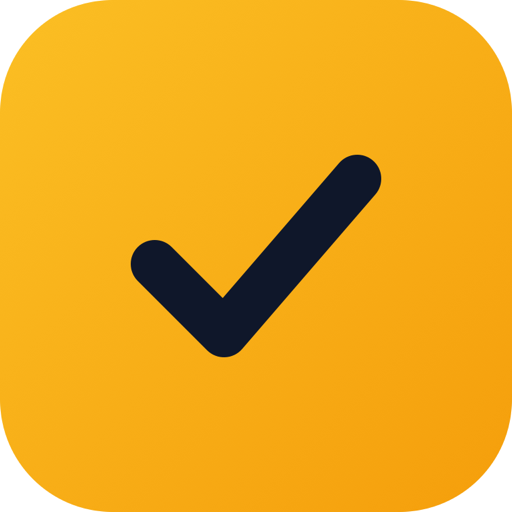
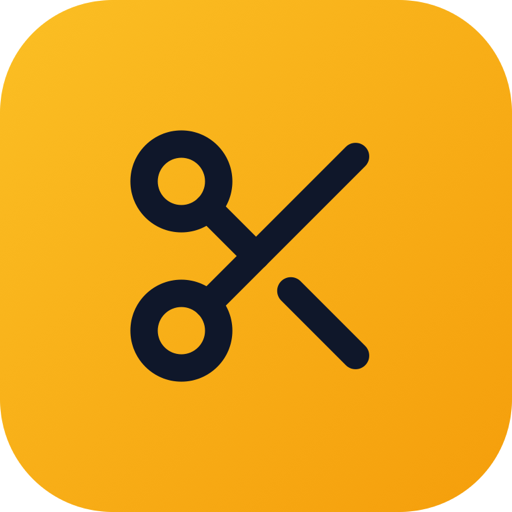
Replace Nuxt branding, show demo accounts, enlarge the alert count
- favicon.ico is now the workshop's scissors mark (16/32/48), and the app
  icons plus the og-image follow the same mark instead of a placeholder check
- app/spa-loading-template.html: a self-contained branded boot screen, wired
  into devServer.loadingTemplate too, so the dev compile screen drops the Nuxt
  logo as well
- Notification chip runs at 3xl with a readable, tabular count
- The seeded demo accounts are printed on the sign-in screen with a fill
  button; NUXT_PUBLIC_DEMO_LOGIN=false hides the block on a real instance

Changed region(s): [[0.25, 0.25, 0.75, 0.75]]

diff --git a/app/spa-loading-template.html b/app/spa-loading-template.html
@@ -1,0 +1,102 @@
+<!--
+  Shown while the app boots (and, via `devServer.loadingTemplate`, while the dev
+  server compiles). Self-contained on purpose: no fonts, no CSS from the app,
+  nothing that could still be loading at the moment this has to be on screen.
+-->
+<div class="chevar-boot">
+  <div class="chevar-boot__mark" aria-hidden="true">
+    <svg viewBox="0 0 24 24" fill="none" stroke="currentColor" stroke-width="2.2" stroke-linecap="round" stroke-linejoin="round">
+      <circle cx="6" cy="6" r="3" />
+      <path d="M8.12 8.12 12 12" />
+      <path d="M20 4 8.12 15.88" />
+      <circle cx="6" cy="18" r="3" />
+      <path d="M14.8 14.8 20 20" />
+    </svg>
+  </div>
+
+  <p class="chevar-boot__name">Chevarxona CRM</p>
+  <p class="chevar-boot__note">Tikuvchilik ustaxonasi</p>
+
+  <div class="chevar-boot__bar"><span></span></div>
+</div>
+
+<style>
+  .chevar-boot {
+    --bg: #f8fafc;
+    --fg: #0f172a;
+    --muted: #64748b;
+    --accent: #f59e0b;
+    --track: rgba(15, 23, 42, 0.08);
+    position: fixed;
+    inset: 0;
+    display: flex;
+    flex-direction: column;
+    align-items: center;
+    justify-content: center;
+    gap: 0.5rem;
+    background: var(--bg);
+    color: var(--fg);
+    font-family: ui-sans-serif, system-ui, -apple-system, "Segoe UI", sans-serif;
+  }
+
+  @media (prefers-color-scheme: dark) {
+    .chevar-boot {
+      --bg: #0f172a;
+      --fg: #f8fafc;
+      --muted: #94a3b8;
+      --track: rgba(248, 250, 252, 0.12);
+    }
+  }
+
+  .chevar-boot__mark {
+    width: 56px;
+    height: 56px;
+    border-radius: 16px;
+    background: linear-gradient(135deg, #fbbf24, #f59e0b);
+    color: #0f172a;
+    display: flex;
+    align-items: center;
+    justify-content: center;
+    margin-bottom: 0.75rem;
+    animation: chevar-pulse 1.6s ease-in-out infinite;
+  }
+
+  .chevar-boot__mark svg { width: 28px; height: 28px; }
+
+  .chevar-boot__name { margin: 0; font-size: 0.9375rem; font-weight: 600; letter-spacing: -0.01em; }
+  .chevar-boot__note { margin: 0; font-size: 0.8125rem; color: var(--muted); }
+
+  .chevar-boot__bar {
+    margin-top: 1.25rem;
+    width: 160px;
+    height: 3px;
+    border-radius: 999px;
+    background: var(--track);
+    overflow: hidden;
+  }
+
+  /* A travelling sliver rather than a percentage: the boot has no progress to report. */
+  .chevar-boot__bar span {
+    display: block;
+    width: 40%;
+    height: 100%;
+    border-radius: 999px;
+    background: var(--accent);
+    animation: chevar-slide 1.2s ease-in-out infinite;
+  }
+
+  @keyframes chevar-pulse {
+    0%, 100% { transform: scale(1); box-shadow: 0 0 0 0 rgba(245, 158, 11, 0.35); }
+    50% { transform: scale(1.04); box-shadow: 0 0 0 12px rgba(245, 158, 11, 0); }
+  }
+
+  @keyframes chevar-slide {
+    0% { transform: translateX(-100%); }
+    100% { transform: translateX(250%); }
+  }
+
+  @media (prefers-reduced-motion: reduce) {
+    .chevar-boot__mark { animation: none; }
+    .chevar-boot__bar span { animation: none; width: 100%; opacity: 0.6; }
+  }
+</style>

diff --git a/app/pages/login.vue b/app/pages/login.vue
@@ -22,8 +22,12 @@ const state = reactive({ email: '', password: '' })
 const pending = ref(false)
 const formError = ref('')
 
-/** Demo credentials shortcut — development builds only. */
-const isDev = import.meta.dev
+/**
+ * Demo credentials. The seeded workshop is meant to be walked into, so the
+ * accounts are printed on the sign-in screen. A real workshop turns the block
+ * off with `NUXT_PUBLIC_DEMO_LOGIN=false`.
+ */
+const showDemo = useRuntimeConfig().public.demoLogin
 const DEMO_ACCOUNTS = [
   { email: 'admin@chevarxona.uz', password: 'admin123', labelKey: 'auth.demoAdmin' },
   { email: 'nodira@chevarxona.uz', password: 'demo1234', labelKey: 'auth.demoManager' }
@@ -120,23 +124,38 @@ function landingFor(roleKey: string) {
       </UButton>
     </UForm>
 
-    <div v-if="isDev" class="rounded-xl ring ring-default bg-elevated/40 p-3 space-y-2">
-      <p class="text-xs font-medium text-highlighted">
+    <div v-if="showDemo" class="rounded-xl ring ring-default bg-elevated/40 p-3 space-y-2.5">
+      <p class="text-xs font-medium text-highlighted flex items-center gap-1.5">
+        <UIcon name="i-lucide-key-round" class="size-3.5 text-primary" />
         {{ $t('auth.demoTitle') }}
       </p>
-      <div class="flex flex-wrap gap-2">
-        <UButton
+
+      <ul class="space-y-1.5">
+        <li
           v-for="account in DEMO_ACCOUNTS"
           :key="account.email"
-          size="xs"
-          color="neutral"
-          variant="subtle"
-          icon="i-lucide-wand-2"
-          @click="useDemoAccount(account)"
+          class="flex items-center gap-2 rounded-lg bg-default ring ring-default px-2.5 py-1.5"
         >
-          {{ $t(account.labelKey) }}
-        </UButton>
-      </div>
+          <div class="min-w-0 flex-1">
+            <p class="text-[11px] text-dimmed">
+              {{ $t(account.labelKey) }}
+            </p>
+            <p class="text-xs font-mono text-toned truncate">
+              {{ account.email }} · {{ account.password }}
+            </p>
+          </div>
+          <UButton
+            size="xs"
+            color="neutral"
+            variant="subtle"
+            icon="i-lucide-wand-2"
+            @click="useDemoAccount(account)"
+          >
+            {{ $t('auth.demoFill') }}
+          </UButton>
+        </li>
+      </ul>
+
       <p class="text-[11px] text-dimmed">{{ $t('auth.demoBody') }}</p>
     </div>
 

diff --git a/nuxt.config.ts b/nuxt.config.ts
@@ -1,3 +1,11 @@
+import { readFileSync } from 'node:fs'
+
+/**
+ * One branded boot screen, used in both places Nuxt would otherwise show its
+ * own: the SPA loading template and the dev server's compile screen.
+ */
+const bootScreen = readFileSync(new URL('./app/spa-loading-template.html', import.meta.url), 'utf-8')
+
 // https://nuxt.com/docs/api/configuration/nuxt-config
 export default defineNuxtConfig({
   compatibilityDate: '2025-07-15',
@@ -44,6 +52,9 @@ export default defineNuxtConfig({
     public: {
       appName: 'Chevarxona CRM',
       currency: process.env.NUXT_PUBLIC_CURRENCY || 'UZS',
+      // Prints the seeded demo accounts on the sign-in screen. Set to false on
+      // a real workshop's deployment.
+      demoLogin: process.env.NUXT_PUBLIC_DEMO_LOGIN !== 'false',
       // Canonical origin for og:url / canonical links. Vercel exposes the
       // production domain itself, so a preview deploy still gets real URLs;
       // locally we fall back to the request origin in `app.vue`.
@@ -59,6 +70,10 @@ export default defineNuxtConfig({
     experimental: {
       asyncContext: true
     }
+  },
+
+  devServer: {
+    loadingTemplate: () => bootScreen
   },
 
   app: {

diff --git a/app/components/shared/NotificationCenter.vue b/app/components/shared/NotificationCenter.vue
@@ -29,7 +29,15 @@ const count = computed(() => (lowStock.value?.total ?? 0) + urgent.value.length)
 
 <template>
   <UPopover :content="{ align: 'end' }">
-    <UChip :show="count > 0" :text="count > 99 ? '99+' : count" size="lg" color="error">
+    <!-- The count has to be readable at a glance from across the workshop,
+         so the chip runs larger than the Nuxt UI default. -->
+    <UChip
+      :show="count > 0"
+      :text="count > 99 ? '99+' : count"
+      size="3xl"
+      color="error"
+      :ui="{ base: 'text-[11px] font-semibold tabular-nums ring-2 ring-default' }"
+    >
       <UButton
         icon="i-lucide-bell"
         color="neutral"

diff --git a/README.md b/README.md
@@ -30,6 +30,10 @@ admin@chevarxona.uz / admin123     # super admin
 nodira@chevarxona.uz / demo1234    # manager (every demo staff account)
 ```
 
+Both accounts are printed on the sign-in screen with a button that fills the
+form, so a demo instance can be walked into. Hide that block with
+`NUXT_PUBLIC_DEMO_LOGIN=false`.
+
 Change that password immediately under **Settings → Staff**, or set
 `SEED_ADMIN_EMAIL` / `SEED_ADMIN_PASSWORD` before the first run.
 
@@ -253,11 +257,17 @@ environment:
 | `SEED_ON_BOOT` | `false`. Otherwise every cold start tries to seed the demo workshop. |
 | `SEED_RESET` | `false` (or leave it out). |
 | `NUXT_PUBLIC_SITE_URL` | Only needed for a custom domain; otherwise the Vercel domain is used. |
+| `NUXT_PUBLIC_DEMO_LOGIN` | `false` on a real workshop's instance — it hides the demo accounts printed on the sign-in screen. |
 
 Create the first admin by seeding once locally against the production database,
 or by setting `SEED_ON_BOOT=true` for a single deploy and turning it off again.
 
 ### SEO and link previews
+
+The favicon, the app icons and the boot screen all carry the workshop's mark
+(`public/favicon.ico`, `public/icon-*.png`, `app/spa-loading-template.html` —
+the last one doubles as the dev server's compile screen through
+`devServer.loadingTemplate`, so no Nuxt branding is left anywhere).
 
 `app.vue` emits a localised description plus the full Open Graph / Twitter set,
 so a link pasted into Telegram or Slack renders `public/og-image.jpg` with the
